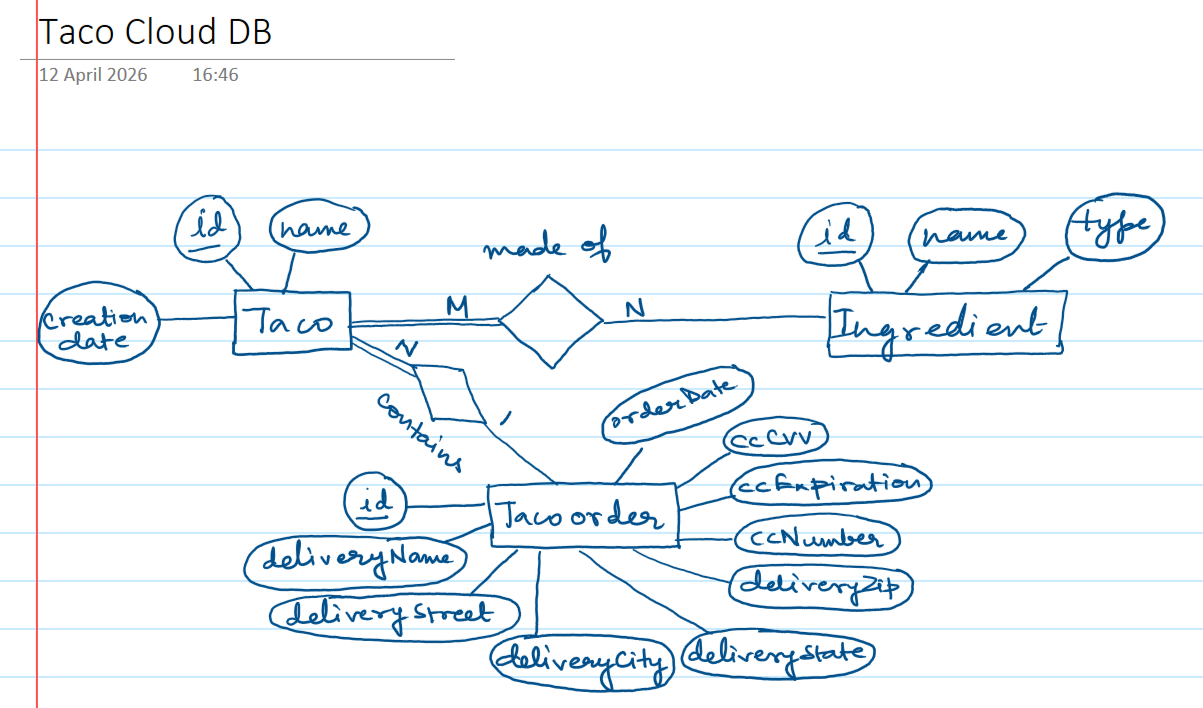
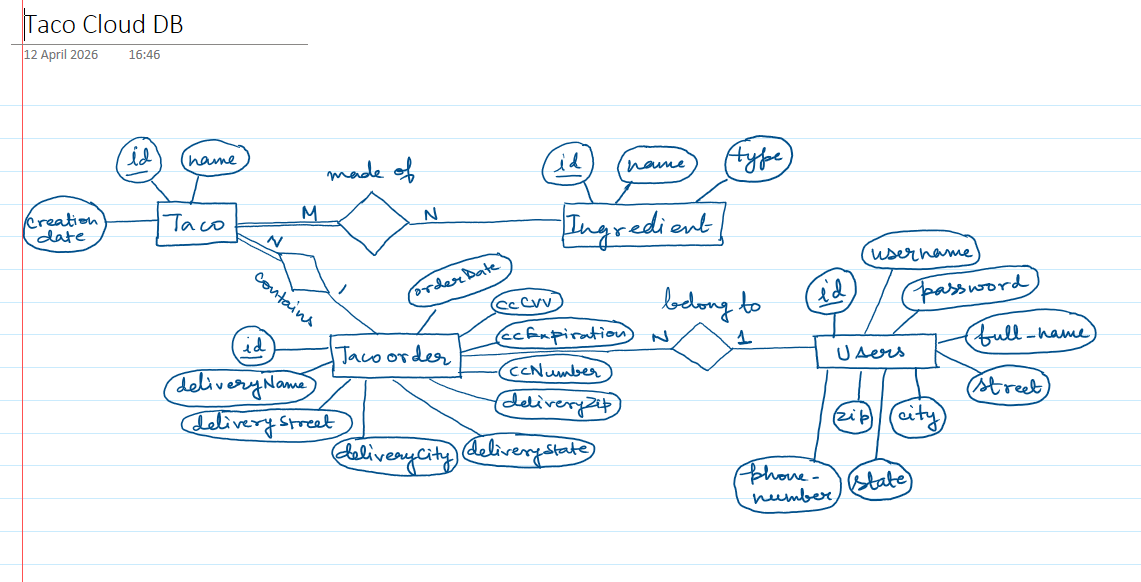
Added link between taco orders and users (#7)
Updated DB Schema
Added h2 database accessibility
Added ability to prefill taco order form with user details

Changed region(s): [[0.0, 0.1546, 1.0, 0.9897], [0.0, 0.0, 0.3681, 0.1237]]

diff --git a/src/main/java/com/mclods/taco_cloud_secured/controllers/OrderController.java b/src/main/java/com/mclods/taco_cloud_secured/controllers/OrderController.java
@@ -1,9 +1,11 @@
 package com.mclods.taco_cloud_secured.controllers;
 
 import com.mclods.taco_cloud_secured.entities.TacoOrder;
+import com.mclods.taco_cloud_secured.entities.User;
 import com.mclods.taco_cloud_secured.services.OrderService;
 import jakarta.validation.Valid;
 import lombok.extern.slf4j.Slf4j;
+import org.springframework.security.core.annotation.AuthenticationPrincipal;
 import org.springframework.stereotype.Controller;
 import org.springframework.validation.Errors;
 import org.springframework.web.bind.annotation.*;
@@ -21,7 +23,11 @@ public class OrderController {
     }
 
     @GetMapping("/current")
-    public String showOrderForm() {
+    public String showOrderForm(
+            @ModelAttribute("tacoOrder") TacoOrder tacoOrder,
+            @AuthenticationPrincipal User user
+    ) {
+        initializeOrderForm(tacoOrder, user);
         return "orderForm";
     }
 
@@ -29,16 +35,26 @@ public class OrderController {
     public String processOrder(
             @Valid @ModelAttribute("tacoOrder") TacoOrder tacoOrder,
             Errors errors,
-            SessionStatus sessionStatus
+            SessionStatus sessionStatus,
+            @AuthenticationPrincipal User user
     ) {
         if(errors.hasErrors()) {
             return "orderForm";
         }
 
+        tacoOrder.setUser(user);
         orderService.saveOrder(tacoOrder);
 
         log.info("Order Submitted: {}", tacoOrder);
         sessionStatus.setComplete();
         return "redirect:/";
+    }
+
+    private void initializeOrderForm(TacoOrder tacoOrder, User user) {
+        tacoOrder.setDeliveryName(user.getFullName());
+        tacoOrder.setDeliveryStreet(user.getStreet());
+        tacoOrder.setDeliveryCity(user.getCity());
+        tacoOrder.setDeliveryState(user.getState());
+        tacoOrder.setDeliveryZip(user.getZip());
     }
 }

diff --git a/src/main/java/com/mclods/taco_cloud_secured/configuration/security/SecurityConfig.java b/src/main/java/com/mclods/taco_cloud_secured/configuration/security/SecurityConfig.java
@@ -5,6 +5,7 @@ import com.mclods.taco_cloud_secured.services.UserService;
 import org.springframework.context.annotation.Bean;
 import org.springframework.context.annotation.Configuration;
 import org.springframework.security.config.annotation.web.builders.HttpSecurity;
+import org.springframework.security.config.annotation.web.configurers.HeadersConfigurer;
 import org.springframework.security.core.userdetails.UserDetailsService;
 import org.springframework.security.core.userdetails.UsernameNotFoundException;
 import org.springframework.security.crypto.bcrypt.BCryptPasswordEncoder;
@@ -58,7 +59,12 @@ public class SecurityConfig {
         http
                 .authorizeHttpRequests(auth -> auth
                         .requestMatchers("/design", "/orders").hasRole("USER")
+                        .requestMatchers("/h2-console/**").permitAll()
                         .requestMatchers("/", "/**").permitAll()
+                )
+                .csrf(csrf -> csrf.ignoringRequestMatchers("/h2-console/**"))
+                .headers(headers -> headers
+                        .frameOptions(HeadersConfigurer.FrameOptionsConfig::sameOrigin)
                 )
                 .formLogin(form -> form
                         .loginPage("/login")

diff --git a/src/main/java/com/mclods/taco_cloud_secured/entities/TacoOrder.java b/src/main/java/com/mclods/taco_cloud_secured/entities/TacoOrder.java
@@ -5,9 +5,7 @@ import jakarta.validation.constraints.Digits;
 import jakarta.validation.constraints.NotBlank;
 import jakarta.validation.constraints.NotNull;
 import jakarta.validation.constraints.Pattern;
-import lombok.AllArgsConstructor;
-import lombok.Data;
-import lombok.NoArgsConstructor;
+import lombok.*;
 import org.hibernate.validator.constraints.CreditCardNumber;
 
 import java.time.LocalDateTime;
@@ -67,6 +65,10 @@ public class TacoOrder {
 
     @OneToMany(mappedBy = "tacoOrder", cascade = CascadeType.PERSIST)
     private final List<Taco> tacos = new ArrayList<>();
+
+    @ManyToOne
+    @JoinColumn(name = "user_id")
+    private User user;
 
     public void addTaco(Taco taco) {
         if(taco.getCreationDate() == null) {
